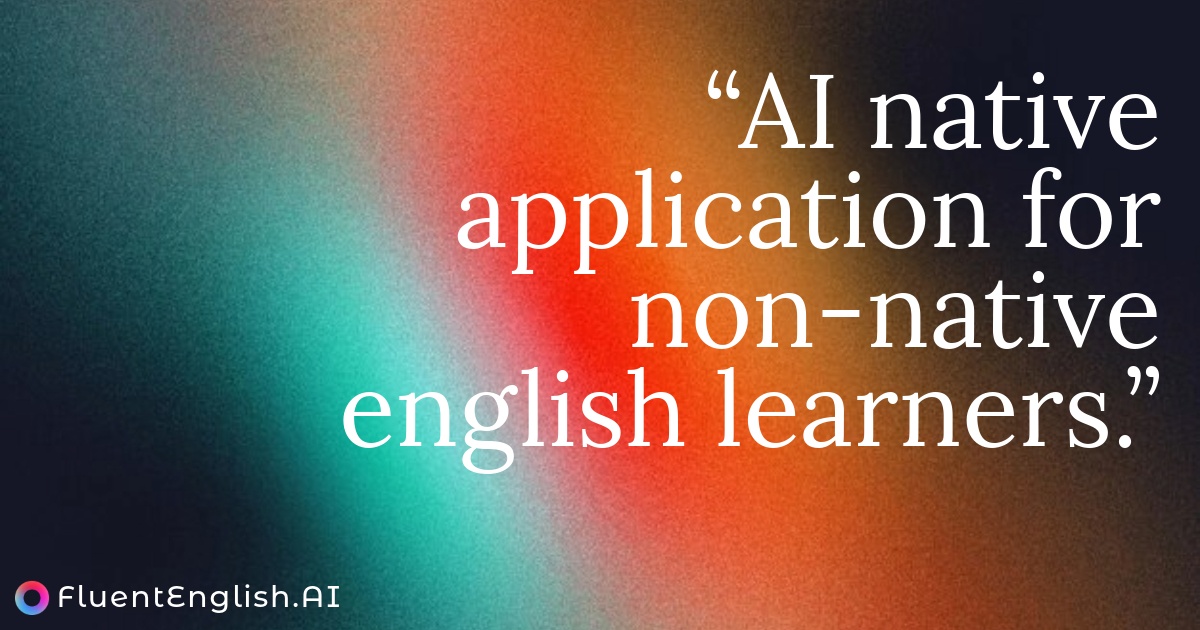
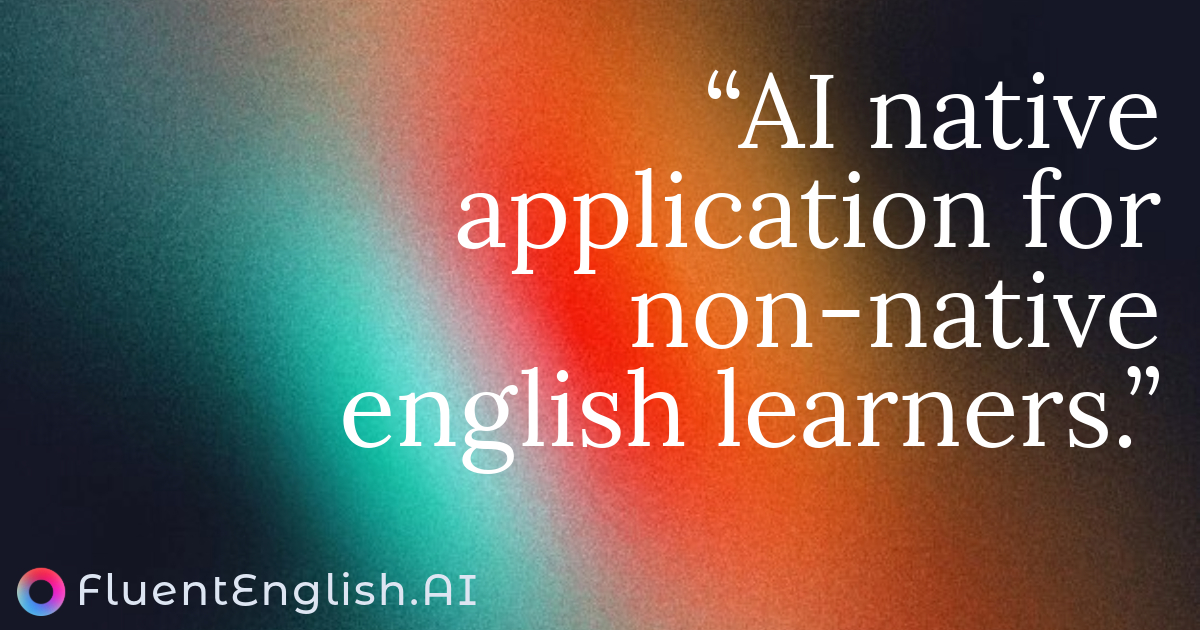
updated og image

Changed region(s): [[0.0, 0.9048, 0.4008, 0.9952]]

diff --git a/src/lib/metadata.ts b/src/lib/metadata.ts
@@ -25,12 +25,11 @@ export function getMetadata(): Metadata {
     openGraph: {
       title: "FluentEnglish.AI",
       description: "An AI native application for non-native English learners.",
-      url: "https://fluentenglish.ai",
+      url: "https://FluentEnglish.ai",
       siteName: "FluentEnglish.AI",
       images: [
         {
-          // todo: remove this with own image /og.jpeg
-          url: "https://i.imgur.com/2wB1GqB.jpeg",
+          url: "/og.jpeg",
           width: 1200,
           height: 630,
         },
@@ -63,11 +62,11 @@ export function getMetadata(): Metadata {
       title: "FluentEnglish.AI",
       description: "An AI native application for non-native English learners.",
       siteId: "fluentenglish_ai",
-      creator: "@fluentenglishai",
-      creatorId: "fluentenglishai",
+      creator: "@fluentenglish_ai",
+      creatorId: "fluentenglish_ai",
       images: {
-        url: "https://i.imgur.com/2wB1GqB.jpeg",
-        alt: "A gradient background with noise and website description written at the bottom left",
+        url: "/og.jpeg",
+        alt: "A gradient background website description written at the bottom left",
       },
     },
     verification: {
@@ -75,7 +74,7 @@ export function getMetadata(): Metadata {
 
       yandex: "Ey7X4/zlbWtObK3I",
       yahoo: "yahoo",
-      other: { me: ["kunal@kunalsin9h.com"] },
+      other: { me: ["help@fluentenglish.ai"] },
     },
     alternates: {
       canonical: "https://fluentenglish.ai",

diff --git a/src/app/layout.tsx b/src/app/layout.tsx
@@ -14,7 +14,12 @@ export default function RootLayout({
 }>) {
   return (
     <html lang="en">
-      <body className={inter.className}>{children}</body>
+      <body className={inter.className}>
+        <div className="relative w-full">
+          <div className="absolute inset-0 bg-gradient from-color-blue-400 to-color-ping-300 opacity-25"></div>
+          <div className="relative">{children}</div>
+        </div>
+      </body>
     </html>
   );
 }
